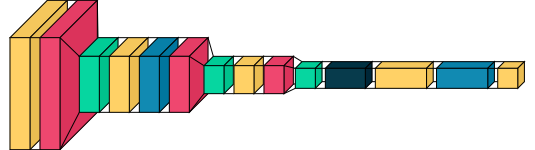
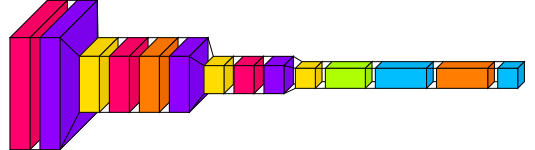
updating visualization

diff --git a/TrainingPrograms/visualize_network.py b/TrainingPrograms/visualize_network.py
@@ -1,20 +1,21 @@
-import cv2
-import mediapipe as mp
-import time
-import math
-import numpy as np
-from rembg import remove
-from keras.datasets import mnist
-from keras.src.utils import img_to_array
-from tensorflow.keras.utils import to_categorical
-from keras.models import Sequential
-from keras.layers import Conv2D, MaxPooling2D
-from keras.layers import Dense, Flatten
-import tensorflow as tf
+
+from tensorflow.keras.models import load_model
+from tensorflow.keras.utils import model_to_dot
 import visualkeras
 
-model1 = tf.keras.models.load_model('smnist.h5')
+# Load the model from the .h5 file
+model = load_model("../smnist.h5")
 
-visualkeras.layered_view(model1).show() # display using your system viewer
+from tensorflow.python.keras.layers import Dense, Conv2D, Flatten, Dropout, MaxPooling2D, ZeroPadding2D
+from collections import defaultdict
 
-visualkeras.layered_view(model1, to_file='output.png') # write to disk
+from tensorflow.keras import layers
+from collections import defaultdict
+color_map = defaultdict(dict)
+color_map[layers.Conv2D]['fill'] = '#ff006d'
+color_map[layers.MaxPooling2D]['fill'] = '#ffdd00'
+color_map[layers.Dropout]['fill'] = '#ff7d00'
+color_map[layers.Dense]['fill'] = '#01befe'
+color_map[layers.Flatten]['fill'] = '#adff02'
+color_map[layers.BatchNormalization]['fill'] = '#8f00ff'
+visualkeras.layered_view(model, color_map=color_map, to_file='output.png').show()
